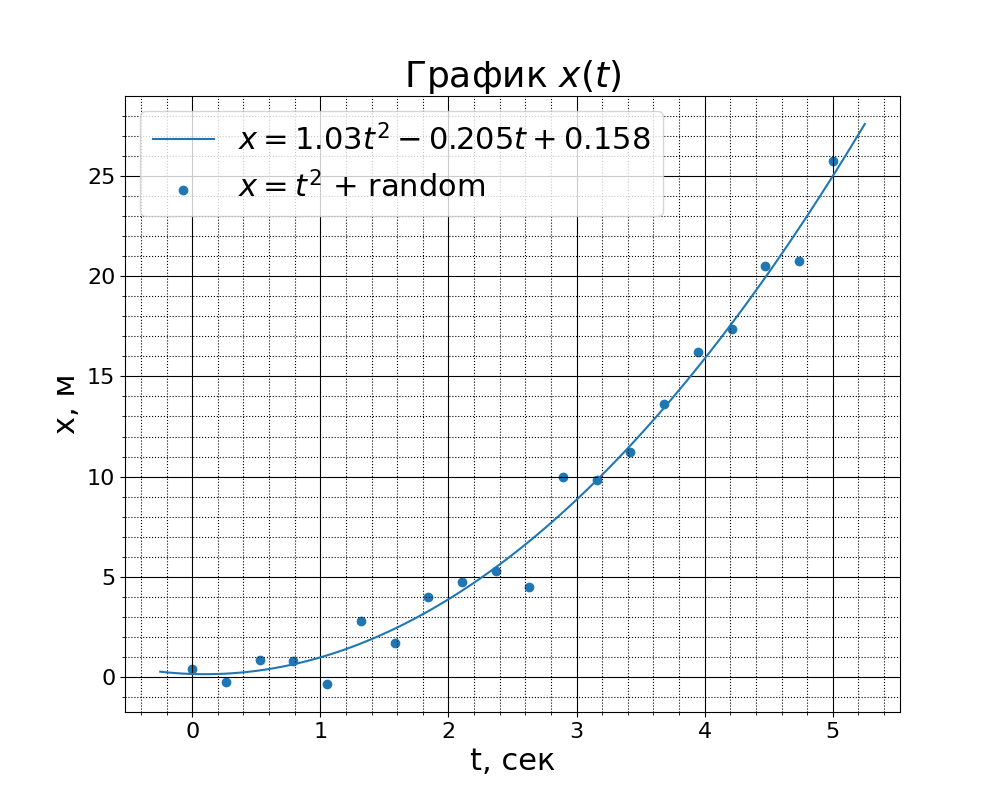
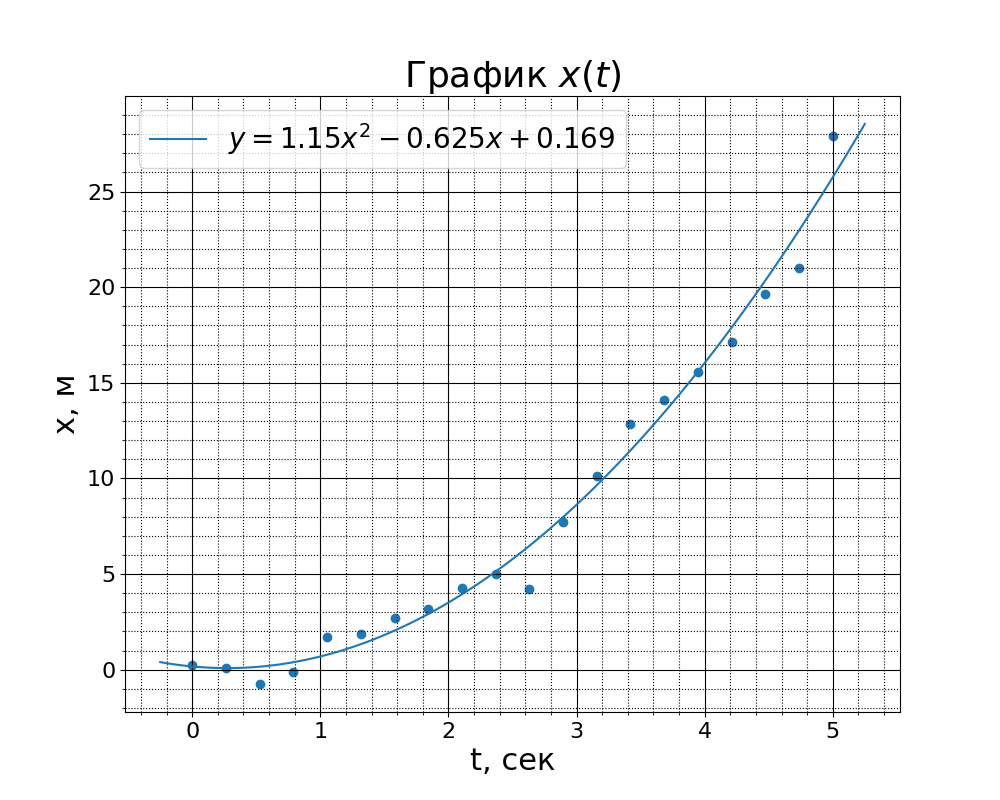
Фикс построения при передачи в качестве отклонения массива. Фикс вида таблицы.

diff --git a/src/miptlabs/latex/tables.py b/src/miptlabs/latex/tables.py
@@ -22,11 +22,11 @@ def gen_from_dataframe(df: DataFrame, caption=None, header=None, index=False):
     header_col = ''
     if header:
         header_col = f'\t\t\t\\hline\n' \
-                     f'\t\t\t\\multicolumn{{{col_count}}}{{|c|}}{{{header}}}\\\\'
+                     f'\t\t\t\\multicolumn{{{col_count}}}{{|c|}}{{{header}}}\\\\\n'
 
-    table_begin = f'\\begin{{table}}[h]\n\t\\begin{{center}}\n' \
+    table_begin = f'\\begin{{table}}[H]\n\t\\begin{{center}}\n' \
                   f'\t\t\\begin{{tabular}}{{|{index_col}{cols}}}\n' \
-                  f'{header_col}\n' \
+                  f'{header_col}' \
                   f'\t\t\t\\hline\n'
 
     # -------------body-------------

diff --git a/src/miptlabs/plotter/plotter.py b/src/miptlabs/plotter/plotter.py
@@ -194,7 +194,7 @@ def _draw(axes, x, y, xerr, yerr, color, legend, points, line, approximator, par
         label = None
 
     # Рисует кресты погрешностей, если нужно
-    if xerr or yerr:
+    if xerr is not None or yerr is not None:
         axes.errorbar(x, y, fmt='none', xerr=xerr, yerr=yerr, c=color, label=label)
         label = None
 

diff --git a/setup.py b/setup.py
@@ -8,7 +8,7 @@ with open("requirements.txt", "r", encoding="utf-8") as fh:
 
 setuptools.setup(
     name='miptlabs',
-    version='1.0.8',
+    version='1.0.10',
     author="Dmitry",
     description="The package will help MIPT students to draw graphs easier",
     long_description=long_description,

diff --git a/src/miptlabs/__init__.py b/src/miptlabs/__init__.py
@@ -1,3 +1,3 @@
 from . import approximators, interpolators, plotter, utils, latex
 
-__version__ = '1.0.8'
+__version__ = '1.0.10'

diff --git a/readme.md b/readme.md
@@ -5,6 +5,7 @@
 ```sh
 python -m pip install --upgrade build wheel
 python -m build --no-isolation
+twine upload dist/*
 ```
 
 Для установки:
